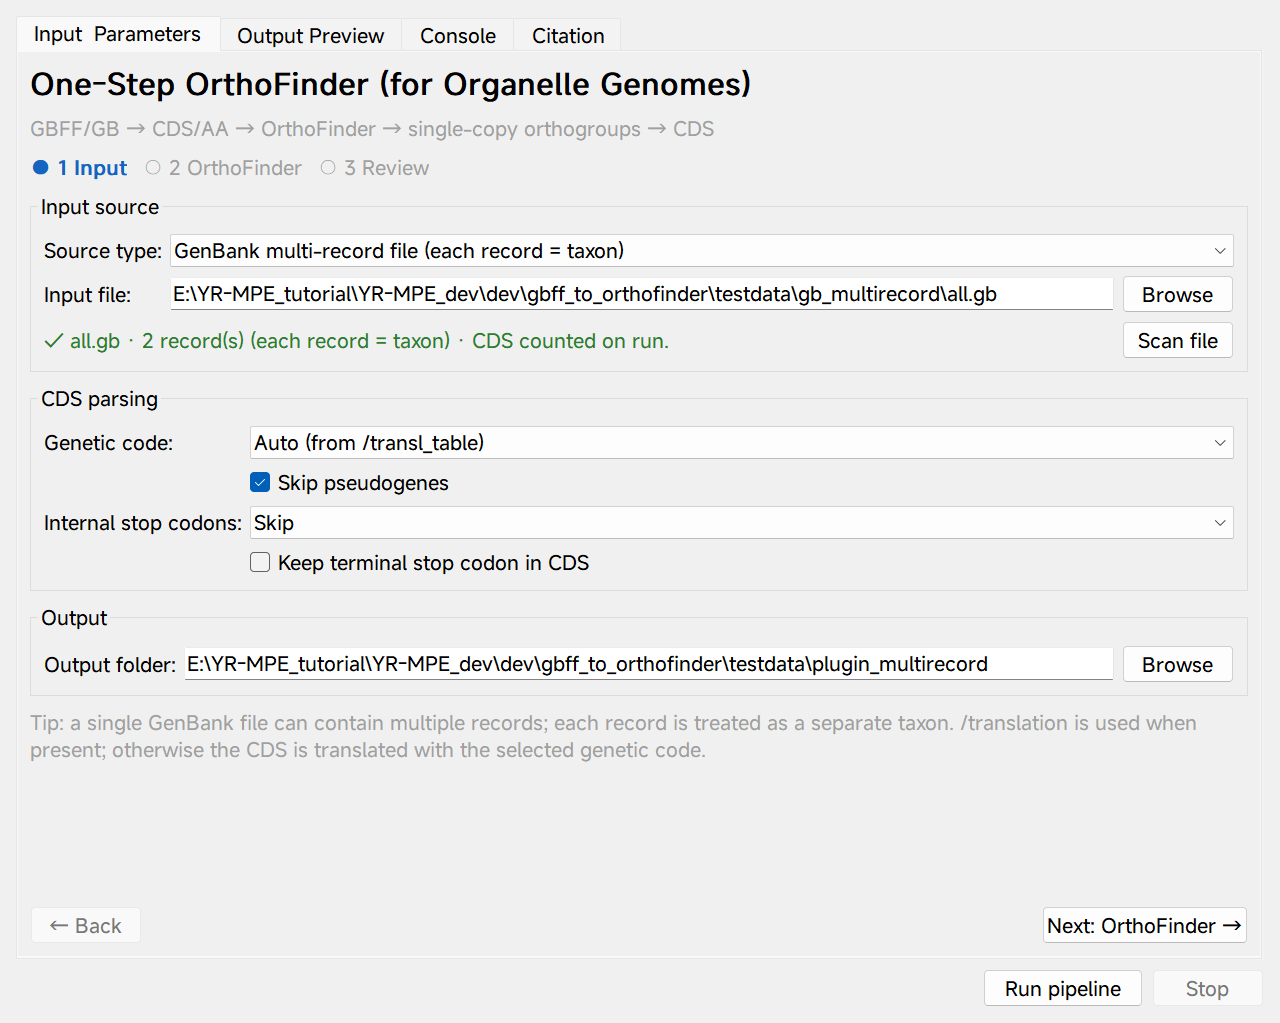
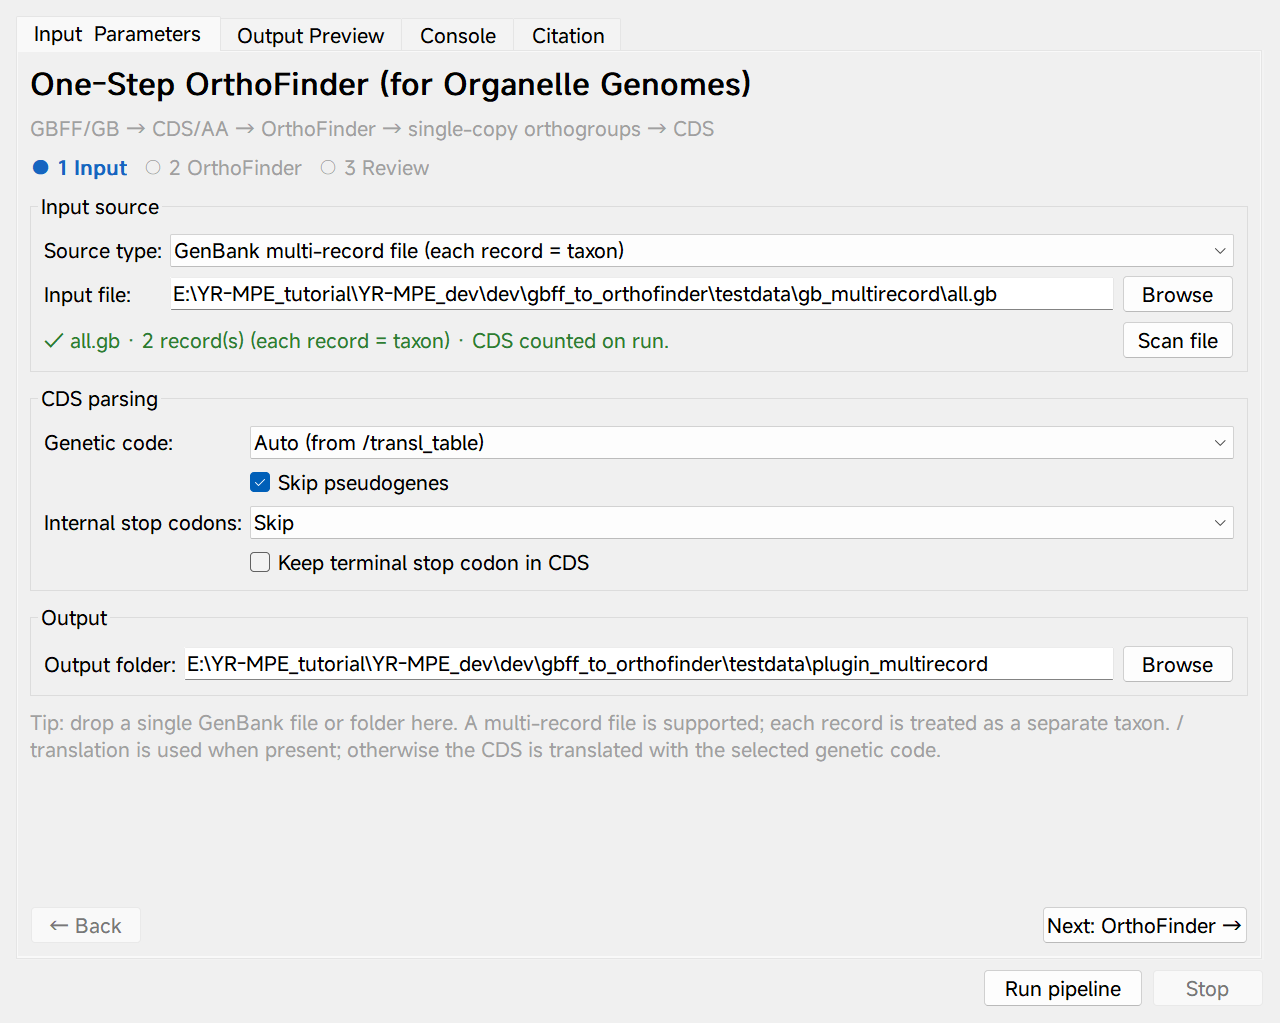
feat: support drag-and-drop input in OrthoFinder
Drop a GenBank folder, a multi-record GenBank file, a proteome folder/file, or a uniform set of files onto the input tab. Paths are classified into gbff / gbff_records / proteome modes; multiple files are copied to a tracked temp folder; output defaults to orthofinder_<timestamp>. Includes 7 tests and updated input screenshots.

Changed region(s): [[0.0312, 0.697, 0.9375, 0.7576]]

diff --git a/YR_MPE/plugins/orthofinder_plugin.py b/YR_MPE/plugins/orthofinder_plugin.py
@@ -99,6 +99,35 @@ def _path_row(edit: QLineEdit, button: QPushButton) -> QWidget:
     return row
 
 
+class DropArea(QWidget):
+    """A QWidget that forwards local dropped paths to the plugin."""
+
+    pathsDropped = pyqtSignal(list)
+
+    def __init__(self, parent=None):
+        super().__init__(parent)
+        self.setAcceptDrops(True)
+
+    def dragEnterEvent(self, event):
+        if event.mimeData().hasUrls():
+            event.acceptProposedAction()
+        else:
+            event.ignore()
+
+    def dropEvent(self, event):
+        paths = []
+        for url in event.mimeData().urls():
+            if url.isLocalFile():
+                path = Path(url.toLocalFile())
+                if path.exists():
+                    paths.append(path)
+        if paths:
+            event.acceptProposedAction()
+            self.pathsDropped.emit(paths)
+        else:
+            event.ignore()
+
+
 def _section(title: str) -> tuple[QGroupBox, QVBoxLayout]:
     group = QGroupBox(title)
     layout = QVBoxLayout(group)
@@ -339,8 +368,14 @@ class OrthoFinderPlugin(BasePlugin):
         self._last_error = ""
         self._progress_text = ""
         self._show_run_dialogs = True
+        self._drop_temp_dirs = []
         super().__init__(import_from, import_data, **kwargs)
         self.run_button.setText("Run pipeline")
+
+    def on_destroyed(self):
+        super().on_destroyed()
+        for path in getattr(self, "_drop_temp_dirs", []):
+            shutil.rmtree(path, ignore_errors=True)
 
     def init_plugin_info(self):
         self.plugin_name = "One-Step OrthoFinder (for Organelle Genomes)"
@@ -357,6 +392,7 @@ class OrthoFinderPlugin(BasePlugin):
     # input tab / wizard
     # ------------------------------------------------------------------
     def setup_input_tab(self):
+        self.setAcceptDrops(True)
         outer = QVBoxLayout(self.input_tab)
         outer.setContentsMargins(0, 0, 0, 0)
 
@@ -365,7 +401,8 @@ class OrthoFinderPlugin(BasePlugin):
         scroll.setFrameShape(QFrame.NoFrame)
         outer.addWidget(scroll)
 
-        content = QWidget()
+        content = DropArea()
+        content.pathsDropped.connect(self._apply_dropped_paths)
         scroll.setWidget(content)
         layout = QVBoxLayout(content)
         layout.setContentsMargins(12, 12, 12, 12)
@@ -429,7 +466,8 @@ class OrthoFinderPlugin(BasePlugin):
         source_form.addRow("Source type:", self.source_combo)
 
         self.input_edit = QLineEdit()
-        self.input_edit.setPlaceholderText("Folder with .gb/.gbff/.gbk files")
+        self.input_edit.setAcceptDrops(False)
+        self.input_edit.setPlaceholderText("Drop or browse a GenBank folder/file")
         self.input_browse_button = QPushButton("Browse")
         self.input_browse_button.clicked.connect(self._browse_input)
         self.input_label = QLabel("Input folder:")
@@ -487,8 +525,9 @@ class OrthoFinderPlugin(BasePlugin):
         layout.addWidget(output_group)
 
         self.tip_label = QLabel(
-            "Tip: one file per species is recommended. /translation is used when "
-            "present; otherwise the CDS is translated with the selected genetic code."
+            "Tip: drop a GenBank folder/file here, or browse. One file per species "
+            "is recommended. /translation is used when present; otherwise the CDS "
+            "is translated with the selected genetic code."
         )
         self.tip_label.setWordWrap(True)
         self.tip_label.setStyleSheet("color: palette(mid);")
@@ -654,22 +693,22 @@ class OrthoFinderPlugin(BasePlugin):
             placeholder = "Folder with .gb/.gbff/.gbk files"
             input_label = "Input folder:"
             scan_label = "Scan folder"
-            tip = ("Tip: one file per species is recommended. /translation is used "
-                   "when present; otherwise the CDS is translated with the selected "
-                   "genetic code.")
+            tip = ("Tip: drop a GenBank folder/file here, or browse. One file per "
+                   "species is recommended. /translation is used when present; "
+                   "otherwise the CDS is translated with the selected genetic code.")
         elif mode == "gbff_records":
             placeholder = "Single GenBank file with multiple records"
             input_label = "Input file:"
             scan_label = "Scan file"
-            tip = ("Tip: a single GenBank file can contain multiple records; each "
-                   "record is treated as a separate taxon. /translation is used when "
-                   "present; otherwise the CDS is translated with the selected "
-                   "genetic code.")
+            tip = ("Tip: drop a single GenBank file or folder here. A multi-record "
+                   "file is supported; each record is treated as a separate taxon. "
+                   "/translation is used when present; otherwise the CDS is "
+                   "translated with the selected genetic code.")
         else:
             placeholder = "Folder with .fa/.faa/.fasta files"
             input_label = "Input folder:"
             scan_label = "Scan folder"
-            tip = "Tip: one protein FASTA per species."
+            tip = "Tip: drop a folder of protein FASTA files here, one per species."
         self.input_edit.setPlaceholderText(placeholder)
         if hasattr(self, "input_label"):
             self.input_label.setText(input_label)
@@ -779,6 +818,152 @@ class OrthoFinderPlugin(BasePlugin):
                 f"✓ {len(files)} file(s) · {len(species)} species · CDS counted on run."
             )
             self.scan_label.setStyleSheet("color: #2e7d32;")
+
+    # ------------------------------------------------------------------
+    # drag and drop input
+    # ------------------------------------------------------------------
+    def _drop_paths(self, mime):
+        if not mime.hasUrls():
+            return []
+        paths = []
+        for url in mime.urls():
+            if not url.isLocalFile():
+                continue
+            path = Path(url.toLocalFile())
+            if path.exists():
+                paths.append(path)
+        return paths
+
+    def _is_supported_drop(self, path: Path) -> bool:
+        if path.is_dir():
+            return True
+        return path.suffix.lower() in {
+            ".gb", ".gbff", ".gbk", ".genbank",
+            ".fa", ".faa", ".fasta", ".fas",
+        }
+
+    def dragEnterEvent(self, event):
+        paths = self._drop_paths(event.mimeData())
+        if paths and all(self._is_supported_drop(path) for path in paths):
+            event.acceptProposedAction()
+            if hasattr(self, "scan_label"):
+                self._drag_prev_scan = self.scan_label.text()
+                self.scan_label.setText("Release to use as input.")
+        else:
+            event.ignore()
+
+    def dragLeaveEvent(self, event):
+        if hasattr(self, "scan_label") and hasattr(self, "_drag_prev_scan"):
+            self.scan_label.setText(self._drag_prev_scan)
+            self._drag_prev_scan = None
+        event.accept()
+
+    def dropEvent(self, event):
+        paths = self._drop_paths(event.mimeData())
+        if not paths:
+            event.ignore()
+            return
+        event.acceptProposedAction()
+        self._apply_dropped_paths(paths, show_dialogs=True)
+
+    def _detect_folder_type(self, folder: Path):
+        gb_suffixes = {".gb", ".gbff", ".gbk", ".genbank"}
+        fa_suffixes = {".fa", ".faa", ".fasta", ".fas"}
+        has_fasta = False
+        try:
+            children = list(folder.iterdir())
+        except OSError:
+            return None
+        for child in children:
+            if not child.is_file():
+                continue
+            suffix = child.suffix.lower()
+            if suffix in gb_suffixes:
+                return "gbff"
+            if suffix in fa_suffixes:
+                has_fasta = True
+        return "proteome" if has_fasta else None
+
+    def _make_drop_folder(self, paths):
+        folder = Path(tempfile.mkdtemp(prefix="yrmpe_drop_"))
+        self._drop_temp_dirs.append(str(folder))
+        used = set()
+        for path in paths:
+            name = path.name
+            target = folder / name
+            index = 2
+            while target.exists() or name in used:
+                target = folder / ("%s_%d%s" % (path.stem, index, path.suffix))
+                index += 1
+            used.add(target.name)
+            shutil.copy2(path, target)
+        return folder
+
+    def _set_dropped_input(self, path: Path, source_type: str) -> bool:
+        try:
+            self._set_combo_data(self.source_combo, source_type)
+        except Exception:
+            return False
+        self.input_edit.setText(str(path))
+        if not self.output_edit.text().strip():
+            self.output_edit.setText(
+                os.path.join(self.workdir or tempfile.gettempdir(),
+                             "orthofinder_%s" % _timestamp())
+            )
+        self.tab_widget.setCurrentIndex(0)
+        self._scan_input()
+        self.add_console_message("Dropped input: %s" % path, "info")
+        return True
+
+    def _apply_dropped_paths(self, paths, show_dialogs=True) -> bool:
+        paths = [Path(path) for path in paths if Path(path).exists()]
+        if not paths:
+            if show_dialogs:
+                QMessageBox.warning(self, "Drop input", "No local files were dropped.")
+            return False
+
+        if len(paths) == 1 and paths[0].is_dir():
+            source_type = self._detect_folder_type(paths[0])
+            if source_type is None:
+                if show_dialogs:
+                    QMessageBox.warning(
+                        self, "Drop input",
+                        "The dropped folder contains no GenBank or protein FASTA files.",
+                    )
+                return False
+            if source_type == "proteome":
+                self.add_console_message(
+                    "Dropped folder: no GenBank files found; using proteome FASTA mode.",
+                    "info",
+                )
+            return self._set_dropped_input(paths[0], source_type)
+
+        if len(paths) == 1 and not paths[0].is_dir():
+            suffix = paths[0].suffix.lower()
+            if suffix in {".gb", ".gbff", ".gbk", ".genbank"}:
+                return self._set_dropped_input(paths[0], "gbff_records")
+            if suffix in {".fa", ".faa", ".fasta", ".fas"}:
+                folder = self._make_drop_folder(paths)
+                return self._set_dropped_input(folder, "proteome")
+            if show_dialogs:
+                QMessageBox.warning(self, "Drop input", "Unsupported file type: %s" % suffix)
+            return False
+
+        suffixes = {path.suffix.lower() for path in paths if path.is_file()}
+        gb_suffixes = {".gb", ".gbff", ".gbk", ".genbank"}
+        fa_suffixes = {".fa", ".faa", ".fasta", ".fas"}
+        if suffixes and suffixes <= gb_suffixes:
+            folder = self._make_drop_folder(paths)
+            return self._set_dropped_input(folder, "gbff")
+        if suffixes and suffixes <= fa_suffixes:
+            folder = self._make_drop_folder(paths)
+            return self._set_dropped_input(folder, "proteome")
+        if show_dialogs:
+            QMessageBox.warning(
+                self, "Drop input",
+                "Drop a single GenBank folder/file, or a uniform set of GenBank/FASTA files.",
+            )
+        return False
 
     def _validate_inputs(self, show: bool = True) -> bool:
         input_path = Path(self.input_edit.text())

diff --git a/dev/orthofinder/test_drag_drop.py b/dev/orthofinder/test_drag_drop.py
@@ -1,0 +1,99 @@
+"""Tests for OrthoFinder drag-and-drop input handling."""
+
+from __future__ import annotations
+
+import os
+import shutil
+import sys
+import tempfile
+import unittest
+from pathlib import Path
+
+os.environ.setdefault("QT_QPA_PLATFORM", "offscreen")
+
+from PyQt5.QtCore import Qt
+from PyQt5.QtWidgets import QApplication
+
+QApplication.setAttribute(Qt.AA_ShareOpenGLContexts)
+
+REPO = Path(__file__).resolve().parents[2]
+sys.path.insert(0, str(REPO))
+
+from YR_MPE.plugins.orthofinder_plugin import OrthoFinderPlugin  # noqa: E402
+
+APP = QApplication.instance() or QApplication(sys.argv)
+GB_DIR = REPO / "dev" / "gbff_to_orthofinder" / "testdata" / "gb"
+
+
+class TestPlugin(OrthoFinderPlugin):
+    def config(self):
+        return True
+
+
+class DragDropTests(unittest.TestCase):
+    def setUp(self):
+        self.root = Path(tempfile.mkdtemp())
+        self.plugin = TestPlugin(import_from="YR_MPEA", workdir=str(self.root))
+
+    def tearDown(self):
+        self.plugin.is_running = False
+        self.plugin.close()
+        shutil.rmtree(self.root, ignore_errors=True)
+        for path in getattr(self.plugin, "_drop_temp_dirs", []):
+            shutil.rmtree(path, ignore_errors=True)
+
+    def test_genbank_folder(self):
+        ok = self.plugin._apply_dropped_paths([GB_DIR], show_dialogs=False)
+        self.assertTrue(ok)
+        self.assertEqual(self.plugin.source_combo.currentData(), "gbff")
+        self.assertEqual(Path(self.plugin.input_edit.text()), GB_DIR)
+        self.assertTrue(self.plugin.scan_label.text())
+
+    def test_multirecord_file(self):
+        file_path = GB_DIR / "HM347959.gb"
+        ok = self.plugin._apply_dropped_paths([file_path], show_dialogs=False)
+        self.assertTrue(ok)
+        self.assertEqual(self.plugin.source_combo.currentData(), "gbff_records")
+        self.assertEqual(Path(self.plugin.input_edit.text()), file_path)
+
+    def test_multiple_genbank_files(self):
+        files = [GB_DIR / "HM347959.gb", GB_DIR / "JN637766.gb"]
+        ok = self.plugin._apply_dropped_paths(files, show_dialogs=False)
+        self.assertTrue(ok)
+        self.assertEqual(self.plugin.source_combo.currentData(), "gbff")
+        dropped_dir = Path(self.plugin.input_edit.text())
+        self.assertTrue(dropped_dir.is_dir())
+        self.assertEqual({path.name for path in dropped_dir.iterdir()}, {path.name for path in files})
+
+    def test_proteome_folder(self):
+        folder = self.root / "proteomes"
+        folder.mkdir()
+        (folder / "sp1.faa").write_text(">a\nMQ\n", encoding="utf-8")
+        ok = self.plugin._apply_dropped_paths([folder], show_dialogs=False)
+        self.assertTrue(ok)
+        self.assertEqual(self.plugin.source_combo.currentData(), "proteome")
+
+    def test_single_proteome_file_becomes_temp_folder(self):
+        file_path = self.root / "sp1.faa"
+        file_path.write_text(">a\nMQ\n", encoding="utf-8")
+        ok = self.plugin._apply_dropped_paths([file_path], show_dialogs=False)
+        self.assertTrue(ok)
+        self.assertEqual(self.plugin.source_combo.currentData(), "proteome")
+        self.assertTrue(Path(self.plugin.input_edit.text()).is_dir())
+
+    def test_empty_folder_rejected(self):
+        folder = self.root / "empty"
+        folder.mkdir()
+        ok = self.plugin._apply_dropped_paths([folder], show_dialogs=False)
+        self.assertFalse(ok)
+
+    def test_mixed_files_rejected(self):
+        gb = GB_DIR / "HM347959.gb"
+        fa = self.root / "sp1.faa"
+        fa.write_text(">a\nMQ\n", encoding="utf-8")
+        ok = self.plugin._apply_dropped_paths([gb, fa], show_dialogs=False)
+        self.assertFalse(ok)
+
+
+if __name__ == "__main__":
+    unittest.main(verbosity=2)
